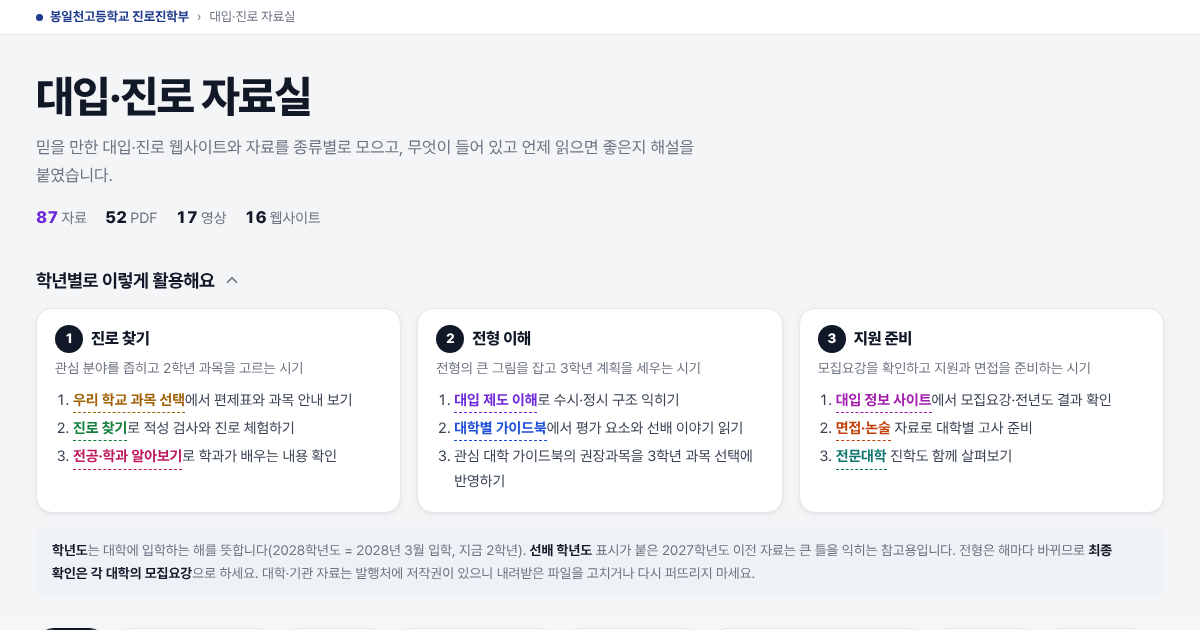
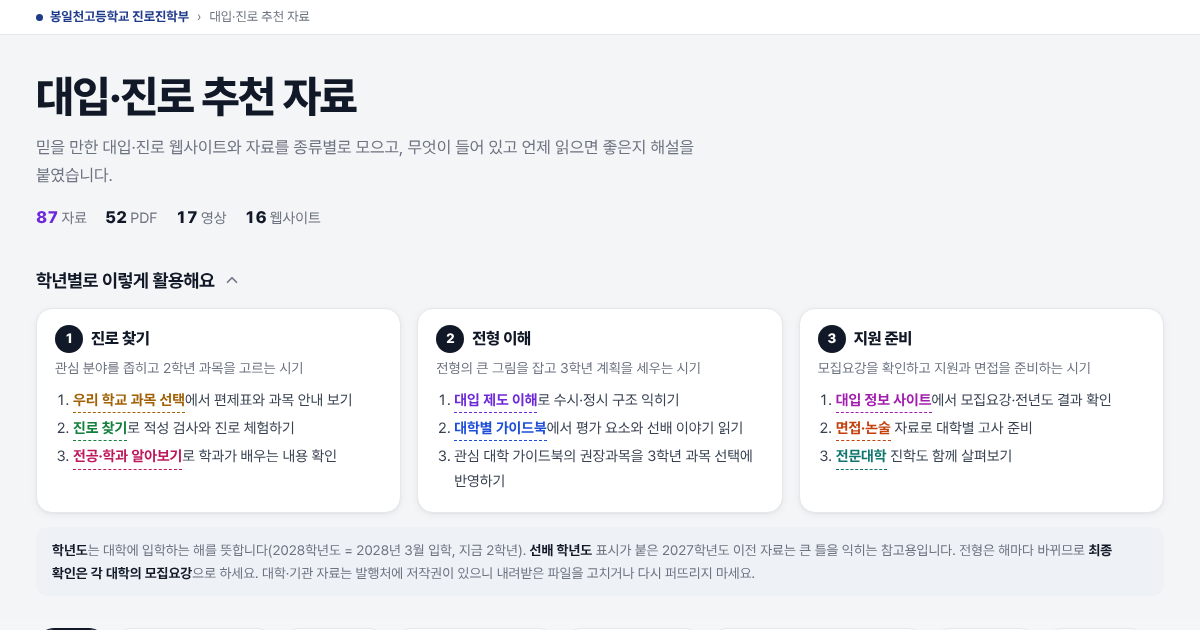
'대입·진로 자료실' 이름을 '대입·진로 추천 자료'로 바꿈
첫 화면 이름 '진로진학 자료실'과 거의 같아 헷갈리던 것을 피한다. 선생님이 골라 해설을 붙인
자료라는 점을 이름에 드러냈다. 바뀐 곳: 자료실 제목·탭 제목·공유 제목·맨 위 경로 줄,
첫 화면 카드 제목과 메타 설명, site.css 예시 주석. 미리보기 그림을 다시 찍음(?v=4).
주소(/jinhak/)는 그대로.

Claude-Session: https://claude.ai/code/session_01LjZeYjppS7STxLQKThNYam

Changed region(s): [[0.1542, 0.1206, 0.3083, 0.181], [0.2158, 0.0, 0.2467, 0.0302]]

diff --git a/index.html b/index.html
@@ -4,14 +4,14 @@
 <meta charset="utf-8">
 <meta name="viewport" content="width=device-width, initial-scale=1">
 <title>봉일천고 진로진학 자료실</title>
-<meta name="description" content="봉일천고등학교 진로진학부가 만든 학생용 사이트 모음: 2028 대입전형 시행계획 요약, 대입·진로 자료실, 경기도 고등학교 학생수 추이, 뉴스 읽고 진로 확장하기, 독서나눔 릴레이">
+<meta name="description" content="봉일천고등학교 진로진학부가 만든 학생용 사이트 모음: 2028 대입전형 시행계획 요약, 대입·진로 추천 자료, 경기도 고등학교 학생수 추이, 뉴스 읽고 진로 확장하기, 독서나눔 릴레이">
 <link rel="icon" href="/favicon.svg?v=1" type="image/svg+xml">
 <link rel="icon" href="/favicon-32.png?v=1" sizes="32x32" type="image/png">
 <link rel="apple-touch-icon" href="/apple-touch-icon.png?v=1">
 <link rel="canonical" href="https://2023swhs3rd-a11y.github.io/">
 <meta property="og:type" content="website">
 <meta property="og:title" content="봉일천고 진로진학 자료실">
-<meta property="og:description" content="2028 대입전형 시행계획 요약 · 대입·진로 자료실 · 경기도 고등학교 학생수 추이 · 뉴스 읽고 진로 확장하기 · 독서나눔 릴레이">
+<meta property="og:description" content="2028 대입전형 시행계획 요약 · 대입·진로 추천 자료 · 경기도 고등학교 학생수 추이 · 뉴스 읽고 진로 확장하기 · 독서나눔 릴레이">
 <meta property="og:url" content="https://2023swhs3rd-a11y.github.io/">
 <meta property="og:image" content="https://2023swhs3rd-a11y.github.io/2028plan/og.png">
 <script>
@@ -114,13 +114,13 @@
         </a>
 
         <a class="card" href="/jinhak/" style="--c: var(--jinhak)">
-          <div class="thumb"><img src="/jinhak/og.png?v=3" alt="" loading="lazy"></div>
+          <div class="thumb"><img src="/jinhak/og.png?v=4" alt="" loading="lazy"></div>
           <div class="body">
             <div class="top">
               <span class="icon"><svg viewBox="0 0 24 24" fill="none" stroke="currentColor" stroke-width="1.9" stroke-linecap="round" stroke-linejoin="round" aria-hidden="true"><path d="M4 5.5A1.5 1.5 0 0 1 5.5 4H10l2 2h6.5A1.5 1.5 0 0 1 20 7.5v11a1.5 1.5 0 0 1-1.5 1.5h-13A1.5 1.5 0 0 1 4 18.5z"/><path d="M8 12h8M8 15.5h5"/></svg></span>
               <div class="tags"><span class="tag">자료 모음</span><span class="tag plain">전 학년</span></div>
             </div>
-            <h3>대입·진로 자료실</h3>
+            <h3>대입·진로 추천 자료</h3>
             <p class="desc">과목 선택, 진로 탐색, 전공 안내, 대학 가이드북, 설명회 영상을 학년별로 쓰기 좋게 모으고 자료마다 해설을 붙였습니다.</p>
             <span class="go">자료 찾아보기 <svg viewBox="0 0 24 24" fill="none" stroke="currentColor" stroke-width="2.2" stroke-linecap="round" stroke-linejoin="round" aria-hidden="true"><path d="M5 12h14M13 6l6 6-6 6"/></svg></span>
           </div>

diff --git a/jinhak/index.html b/jinhak/index.html
@@ -3,17 +3,17 @@
 <head>
 <meta charset="utf-8">
 <meta name="viewport" content="width=device-width, initial-scale=1">
-<title>대입·진로 자료실</title>
+<title>대입·진로 추천 자료</title>
 <meta name="description" content="봉일천고 진로진학부가 고른 대입·진로 웹사이트와 자료를 종류별로 모으고, 무엇을 담았는지와 언제 읽으면 좋은지 해설을 붙였습니다.">
 <link rel="icon" href="/favicon.svg?v=1" type="image/svg+xml">
 <link rel="icon" href="/favicon-32.png?v=1" sizes="32x32" type="image/png">
 <link rel="apple-touch-icon" href="/apple-touch-icon.png?v=1">
 <link rel="canonical" href="https://2023swhs3rd-a11y.github.io/jinhak/">
 <meta property="og:type" content="website">
-<meta property="og:title" content="봉일천고 대입·진로 자료실">
+<meta property="og:title" content="봉일천고 대입·진로 추천 자료">
 <meta property="og:description" content="대입 포털, 전형 해설, 대학 가이드북, 과목 선택 자료, 영상까지 종류별로 모으고 해설을 붙였습니다.">
 <meta property="og:url" content="https://2023swhs3rd-a11y.github.io/jinhak/">
-<meta property="og:image" content="https://2023swhs3rd-a11y.github.io/jinhak/og.png?v=3">
+<meta property="og:image" content="https://2023swhs3rd-a11y.github.io/jinhak/og.png?v=4">
 <link rel="stylesheet" href="/assets/site.css?v=1">
 <style>
   :root {
@@ -145,10 +145,10 @@
 </style>
 </head>
 <body>
-<nav class="bon-bar" aria-label="진로진학부 사이트"><div class="bon-bar-in"><a href="/">봉일천고등학교 진로진학부</a><span aria-current="page">대입·진로 자료실</span></div></nav>
+<nav class="bon-bar" aria-label="진로진학부 사이트"><div class="bon-bar-in"><a href="/">봉일천고등학교 진로진학부</a><span aria-current="page">대입·진로 추천 자료</span></div></nav>
 <div class="wrap">
   <header class="bon-header">
-    <h1 class="bon-title">대입·진로 자료실</h1>
+    <h1 class="bon-title">대입·진로 추천 자료</h1>
     <p class="bon-lead">믿을 만한 대입·진로 웹사이트와 자료를 종류별로 모으고, 무엇이 들어 있고 언제 읽으면 좋은지 해설을 붙였습니다.</p>
     <ul class="stats" id="stats"></ul>
   </header>
@@ -228,7 +228,7 @@
   const OUT = '<svg viewBox="0 0 24 24" fill="none" stroke="currentColor" stroke-width="2.2" stroke-linecap="round" stroke-linejoin="round" aria-hidden="true"><path d="M7 17L17 7M8 7h9v9"/></svg>';
   const mobile = matchMedia('(max-width: 640px)');
 
-  // 학년도 안내: 이 자료실이 중심에 두는 학년도(FOCUS)를 지금 몇 학년이 치르는지 날짜로 계산한다
+  // 학년도 안내: 이 페이지가 중심에 두는 학년도(FOCUS)를 지금 몇 학년이 치르는지 날짜로 계산한다
   const FOCUS = 2028;
   const now = new Date();
   const schoolYear = now.getMonth() >= 2 ? now.getFullYear() : now.getFullYear() - 1; // 3월에 새 학년

diff --git a/assets/site.css b/assets/site.css
@@ -37,7 +37,7 @@
   /* 진로진학부 대표색과 사이트별 고유색(첫 화면 카드 색과 같다) */
   --bon-brand: #1e3a8a;
   --bon-c-plan: #1d4ed8;   /* 2028 대입전형 시행계획 요약 */
-  --bon-c-jinhak: #6d28d9; /* 대입·진로 자료실 */
+  --bon-c-jinhak: #6d28d9; /* 대입·진로 추천 자료 */
   --bon-c-gg: #0e7490;     /* 경기도 고등학교 학생수 추이 */
   --bon-c-news: #15803d;   /* 뉴스 읽고 진로 확장하기 */
   --bon-c-book: #c2410c;   /* 독서나눔 릴레이 */
@@ -79,7 +79,7 @@
 /* ───────── 맨 위 경로 줄(하위 사이트 공통) ─────────
   첫 화면을 뺀 모든 사이트의 <body> 바로 안 맨 위에 둔다. 학교명을 누르면 첫 화면으로 간다.
   <nav class="bon-bar" aria-label="진로진학부 사이트"><div class="bon-bar-in">
-    <a href="/">봉일천고등학교 진로진학부</a><span aria-current="page">대입·진로 자료실</span>
+    <a href="/">봉일천고등학교 진로진학부</a><span aria-current="page">대입·진로 추천 자료</span>
   </div></nav>
   안쪽 폭은 그 사이트 본문 폭에 맞춰 페이지에서 --bon-max 로 바꾼다(예: .bon-bar { --bon-max: 1440px; }).
 */
@@ -93,10 +93,10 @@
 .bon-bar span::before { content: "›"; margin-right: 8px; color: var(--bon-muted); }
 @media print { .bon-bar { display: none; } }
 
-/* ───────── 머리말(첫 화면·자료실처럼 머리말을 새로 짤 때) ─────────
+/* ───────── 머리말(첫 화면·추천 자료처럼 머리말을 새로 짤 때) ─────────
   <header class="bon-header">
     <p class="bon-school">봉일천고등학교 진로진학부</p>   ← 위 경로 줄을 쓰는 페이지에서는 뺀다
-    <h1 class="bon-title">대입·진로 자료실</h1>
+    <h1 class="bon-title">대입·진로 추천 자료</h1>
     <p class="bon-lead">한두 문장 소개</p>
   </header>
 */
